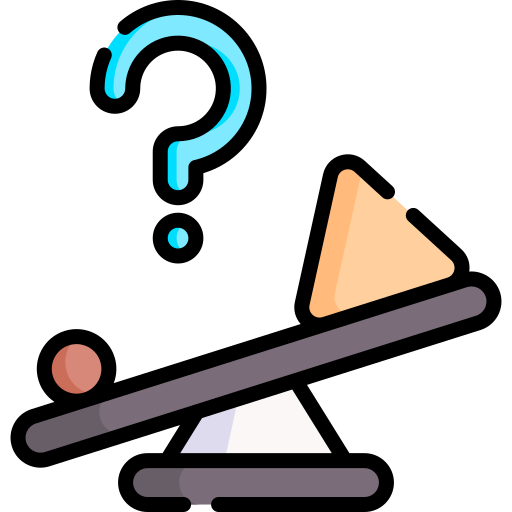
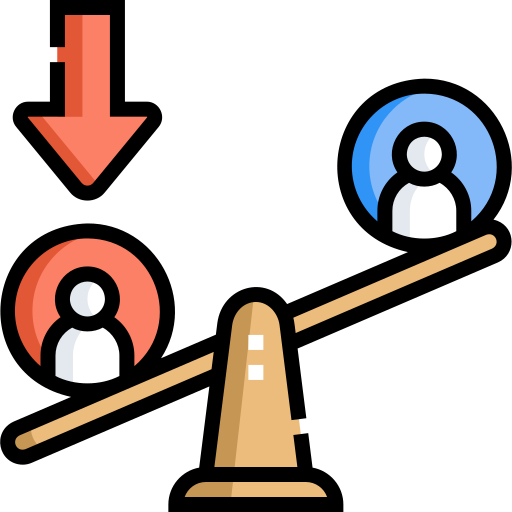
Enhance admin UI

diff --git a/world_stage/templates/user/page.html b/world_stage/templates/user/page.html
@@ -4,32 +4,32 @@
 <div class="cards-container">
     <a href="{{ url_for('user.submissions', username=username) }}" class="card">
         <h3>Submissions</h3>
-        <img src="/static/images/history.png" alt="Submit Icon">
+        <img src="/static/images/history.png" alt="Submissions Icon">
         <p>Views the user's submissions.</p>
     </a>
     <a href="{{ url_for('user.votes', username=username) }}" class="card">
-        <h3>History</h3>
-        <img src="/static/images/history.png" alt="History Icon">
+        <h3>Votes</h3>
+        <img src="/static/images/hands.png" alt="Votes Icon">
         <p>View the user's vote history.</p>
     </a>
     <a href="{{ url_for('user.predictions', username=username) }}" class="card">
         <h3>Predictions</h3>
-        <img src="/static/images/history.png" alt="Predictions Icon">
+        <img src="/static/images/predictions.png" alt="Predictions Icon">
         <p>View the user's prediction history.</p>
     </a>
     <a href="{{ url_for('user.bias', username=username) }}" class="card">
         <h3>Bias</h3>
-        <img src="/static/images/hands.png" alt="Bias Icon">
+        <img src="/static/images/bias.png" alt="Bias Icon">
         <p>View the user's bias.</p>
     </a>
     <a href="{{ url_for('user.bias_for', username=username) }}" class="card">
-        <h3>Received biases</h3>
-        <img src="/static/images/hands.png" alt="Received biases icon">
+        <h3>Received bias</h3>
+        <img src="/static/images/bias-alt.png" alt="Received Bias Icon">
         <p>View which voters are biased toward this user.</p>
     </a>
     <a href="{{ url_for('user.similar', username=username) }}" class="card">
         <h3>Similar tastes</h3>
-        <img src="/static/images/hands.png" alt="Similar tastes icon">
+        <img src="/static/images/similarity.png" alt="Similar Tastes Icon">
         <p>Find voters who rank songs most like this user.</p>
     </a>
 </div>

diff --git a/world_stage/templates/admin/index.html b/world_stage/templates/admin/index.html
@@ -1,13 +1,6 @@
 {% extends "base.html" %}
 {% block title %}Administrator Utilities{% endblock %}
 {% block content %}
-<div>
-    <p>Since I'm lazy, I'm not gonna try to figure out how to add a tile for draw functionality.
-    <p>To draw the semifinals for the year, go to <code>https://ws.funcall.me/admin/draw/&lt;year&gt;</code>.
-    <p>To draw the finals for the year, go to <code>https://ws.funcall.me/admin/draw/&lt;year&gt;/f</code>.
-    <p>If the second chance round returns, you can draw it by going to <code>https://ws.funcall.me/admin/draw/&lt;year&gt;/sc</code>.
-    <p>To set the pots, go to <code>https://ws.funcall.me/admin/setpots/&lt;year&gt;</code>.
-</div>
 <div class="cards-container">
     <a href="{{ url_for('admin.manage_index') }}" class="card">
         <h3>Manage</h3>
@@ -26,30 +19,37 @@
     </a>
     <a href="{{ url_for('admin.move') }}" class="card">
         <h3>Move</h3>
+        <img src="/static/images/move.png" alt="Move Icon">
         <p>Change years and countries for entries</p>
     </a>
     <a href="{{ url_for('admin.fuckup_db') }}" class="card">
         <h3>Fuck Up The Database</h3>
+        <img src="/static/images/database.png" alt="Database Icon">
         <p>Please don't use this if you don't know what you're doing</p>
     </a>
     <a href="{{ url_for('admin.upload') }}" class="card">
         <h3>Upload a file</h3>
+        <img src="/static/images/upload.png" alt="Upload Icon">
         <p>Upload something to the server</p>
     </a>
     <a href="{{ url_for('admin.predictions_index') }}" class="card">
         <h3>Predictions</h3>
+        <img src="/static/images/predictions.png" alt="Predictions Icon">
         <p>View submitted predictions and win odds per show</p>
     </a>
     <a href="{{ url_for('admin.genre_index') }}" class="card">
         <h3>Genres</h3>
+        <img src="/static/images/genre.png" alt="Genres Icon">
         <p>Manage song genres and subgenres</p>
     </a>
     <a href="{{ url_for('admin.language_create') }}" class="card">
         <h3>Add Language</h3>
+        <img src="/static/images/languages.png" alt="Language Icon">
         <p>Add a new language to the database</p>
     </a>
     <a href="{{ url_for('admin.alternative_name_index') }}" class="card">
         <h3>Add Alternative Name</h3>
+        <img src="/static/images/alternative.png" alt="Alternative Name Icon">
         <p>Add a country name/flag override for a year range</p>
     </a>
 </div>

diff --git a/world_stage/templates/admin/manage_shows.html b/world_stage/templates/admin/manage_shows.html
@@ -25,10 +25,17 @@
         <li><a href="{{ url_for('admin.create_show', year=year.id) }}">Create Show</a></li>
         <li><a href="{{ url_for('admin.set_pots', year=year.id) }}">Set Pots</a></li>
         {% endif %}
+        {% set has_repechage = shows | selectattr('short_name', 'equalto', 'sc') | list | length > 0 %}
         {% if year.special_short_name %}
-        <li><a href="{{ url_for('admin.draw_special', short_name=year.special_short_name) }}">Draw</a></li>
+        <li>
+            <a href="{{ url_for('admin.draw_special', short_name=year.special_short_name) }}">Draw</a>
+            ({% if has_repechage %}<a href="{{ url_for('admin.draw_special_final', short_name=year.special_short_name, show='sc') }}">Repechage</a>, {% endif %}<a href="{{ url_for('admin.draw_special_final', short_name=year.special_short_name, show='f') }}">Final</a>)
+        </li>
         {% else %}
-        <li><a href="{{ url_for('admin.draw', year=year.id) }}">Draw</a></li>
+        <li>
+            <a href="{{ url_for('admin.draw', year=year.id) }}">Draw</a>
+            ({% if has_repechage %}<a href="{{ url_for('admin.draw_final', year=year.id, show='sc') }}">Repechage</a>, {% endif %}<a href="{{ url_for('admin.draw_final', year=year.id, show='f') }}">Final</a>)
+        </li>
         {% endif %}
     </ul>
 </div>

diff --git a/world_stage/templates/member/index.html b/world_stage/templates/member/index.html
@@ -9,17 +9,17 @@
     </a>
     <a href="{{ url_for('user.submissions', username=(username)) }}" class="card">
         <h3>Submissions</h3>
-        <img src="/static/images/history.png" alt="History Icon">
+        <img src="/static/images/history.png" alt="Submissions Icon">
         <p>Check out your past submissions.</p>
     </a>
     <a href="{{ url_for('user.votes', username=(username)) }}" class="card">
         <h3>Previous votes</h3>
-        <img src="/static/images/hands.png" alt="Hands Icon">
+        <img src="/static/images/hands.png" alt="Votes Icon">
         <p>Check out your past votes.</p>
     </a>
     <a href="{{ url_for('user.predictions', username=(username)) }}" class="card">
-        <h3>Previous predictions</h3>
-        <img src="/static/images/history.png" alt="Predictions Icon">
+        <h3>Predictions</h3>
+        <img src="/static/images/predictions.png" alt="Predictions Icon">
         <p>Check out your past predictions.</p>
     </a>
     <a href="{{ url_for('user.bias', username=username) }}" class="card">
@@ -30,7 +30,7 @@
     <form id="logout-form" action="{{ url_for('session.logout') }}" method="POST">
         <a href="#" onclick="this.parentNode.submit()" class="card">
             <h3>Log out</h3>
-            <img src="/static/images/exit.png" alt="Calendar Icon">
+            <img src="/static/images/exit.png" alt="Log Out Icon">
             <p>Log out of the website.</p>
         </a>
     </form>